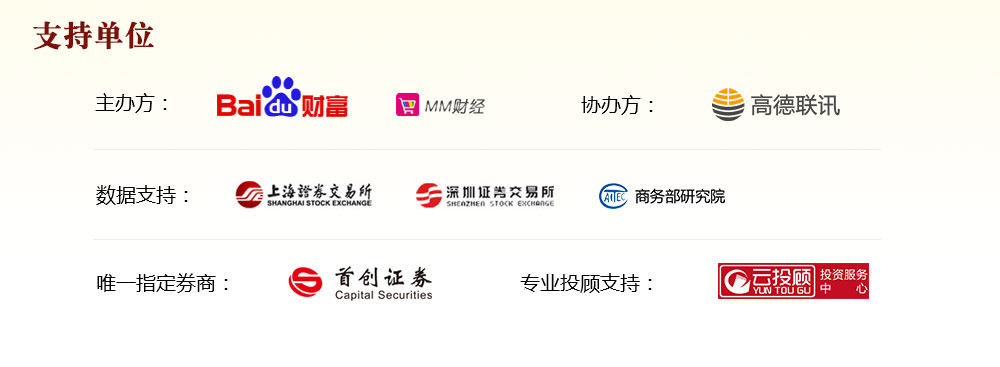
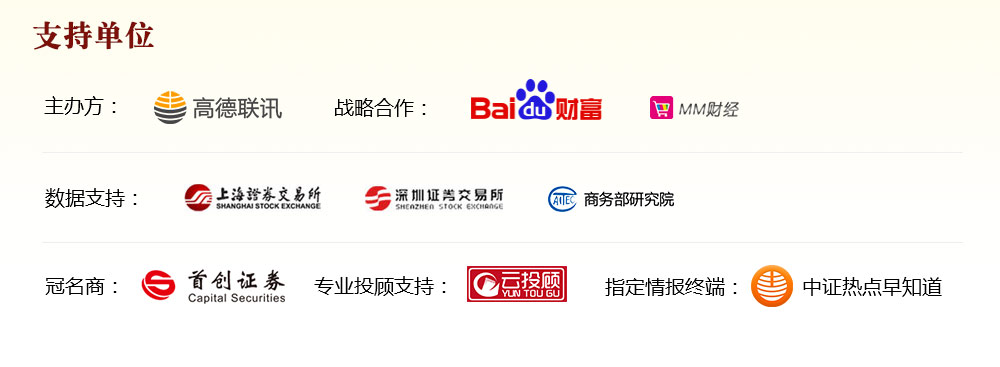
Signed-off-by: Fengsheng Li <lifengsheng@uniwa.cn>

diff --git a/炒股大赛PC/主页3.html b/炒股大赛PC/主页3.html
@@ -551,8 +551,7 @@ $(function(){
       </tbody></table>
     </div>
   </div>
-  <div class="adverttl2"><img src="images/bannr.png"></div>
-    <div class=""><img src="images/zhichidanwie_24.png"></div>
+    <div class="zhichidanwei"></div>
 
 </div>
 <div class="footer">北京高德联讯科技有限公司&nbsp;&nbsp;&nbsp;&nbsp;[京ICP备<a>14024106</a>号-2]</div>

diff --git a/炒股大赛PC/index2.css b/炒股大赛PC/index2.css
@@ -331,6 +331,7 @@ a.txweixin:hover b{ display:block;}
 .yhhyjl th{ background:#f5f5f5;border:1px solid #eee;}
 .yhhyjl td{border:1px solid #eee;}
 
+.zhichidanwei{ width:1000px; height:311px; background:url(images/zhichidanwie_24.png) no-repeat; overflow:hidden;}
 
 /* 积分商城 */
 .jfsc{ padding: 0 0 20px;}
